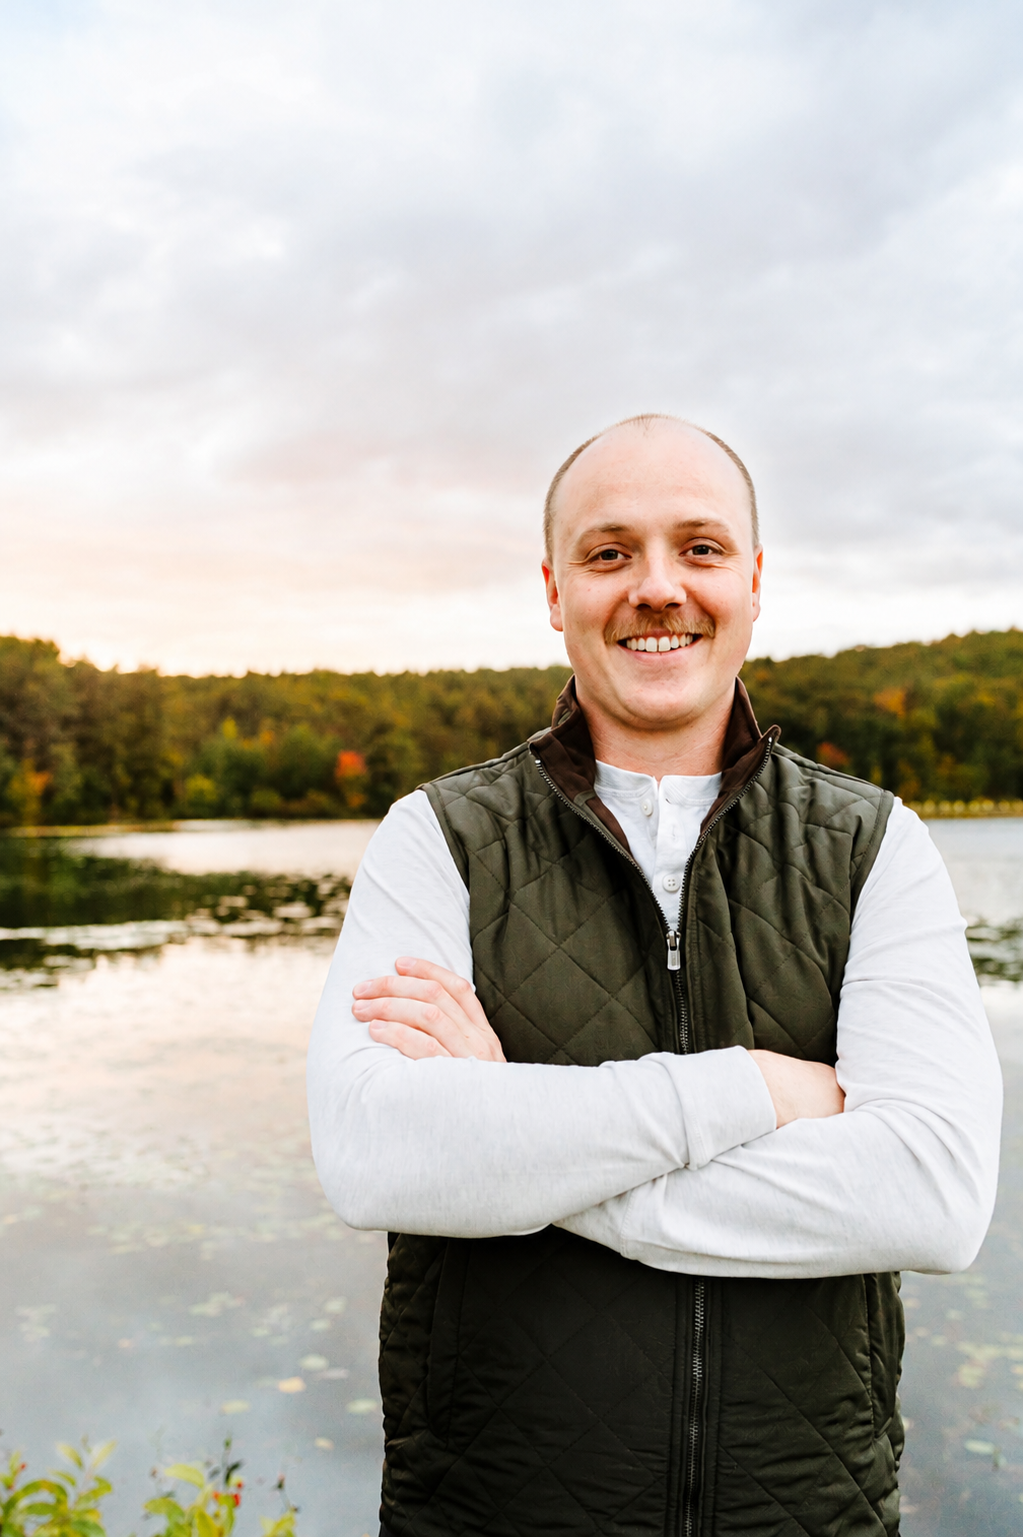
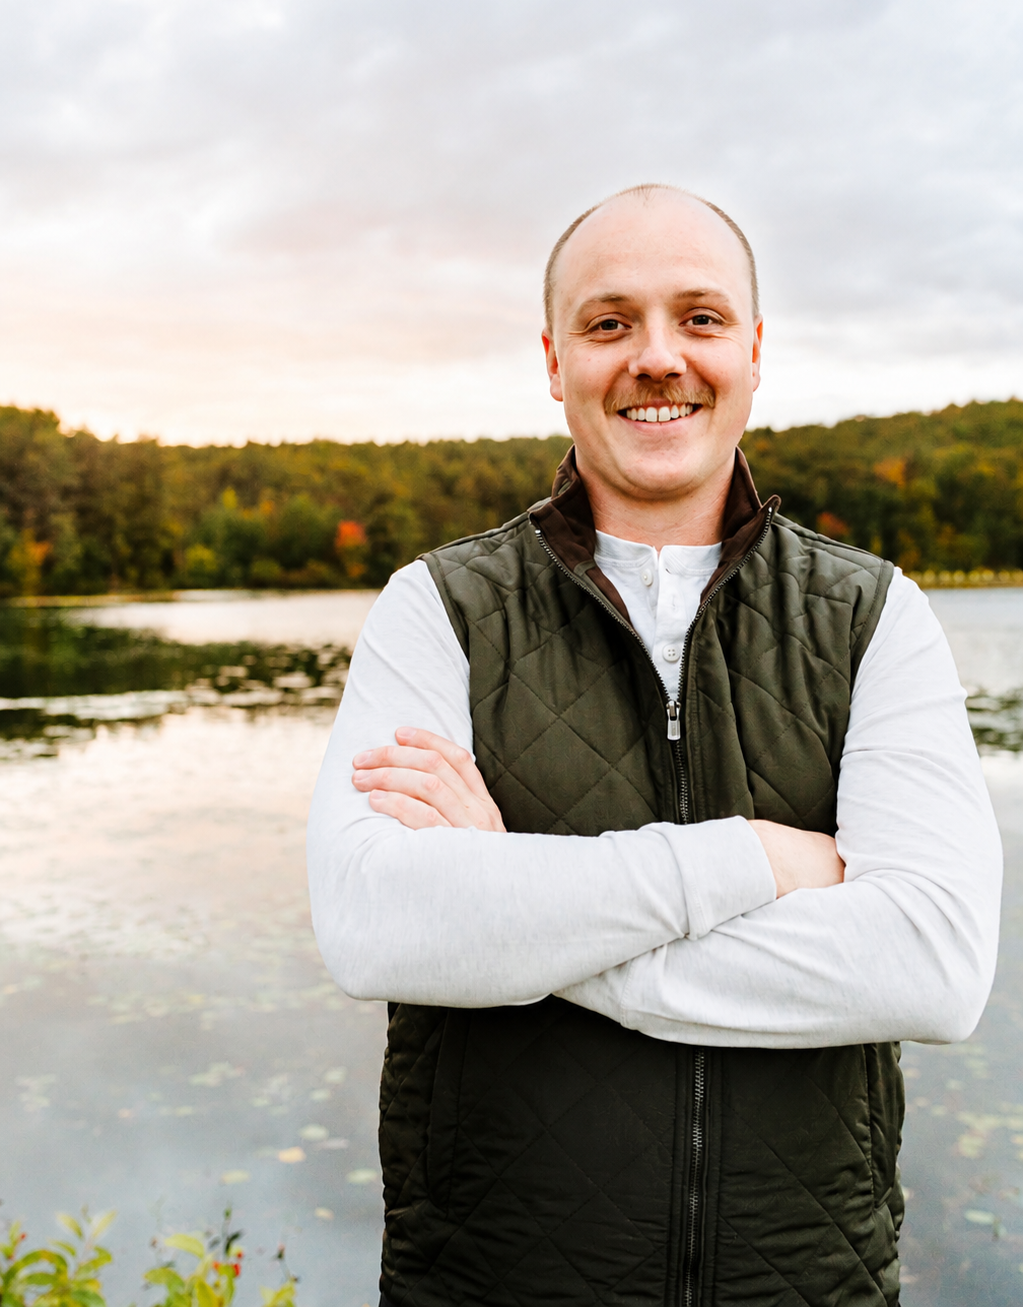
Crop top 15% from Nick headshot to remove sky space above head

diff --git a/about.html b/about.html
@@ -286,7 +286,7 @@
       <!-- Right: Nick's headshot -->
       <div class="relative">
         <div class="photo-slot card-shadow" style="aspect-ratio:4/5;max-width:420px;margin:0 auto;">
-          <img src="./Nick Headshot.png" alt="Nick Williamson, Founder of Vital Vending Sales" width="840" height="1050" loading="lazy" style="object-position:center 20%;transform:scale(1.15);transform-origin:center 25%;" />
+          <img src="./Nick Headshot.png" alt="Nick Williamson, Founder of Vital Vending Sales" width="840" height="1050" loading="lazy" style="object-position:center top;" />
           <div class="photo-overlay"></div>
           <div class="photo-label">
             <div class="font-black text-white text-lg" style="letter-spacing:-0.02em;">Nick Williamson</div>
@@ -396,7 +396,7 @@
       <!-- Card 2 — Nick Williamson (center) -->
       <div class="team-card">
         <div class="team-photo">
-          <img src="./Nick Headshot.png" alt="Nick Williamson, Founder of Vital Vending Sales" width="480" height="600" loading="lazy" style="object-position:center 30%;transform:scale(1.15);transform-origin:center 35%;" />
+          <img src="./Nick Headshot.png" alt="Nick Williamson, Founder of Vital Vending Sales" width="480" height="600" loading="lazy" style="object-position:center top;" />
           <div style="position:absolute;inset:0;background:linear-gradient(to top, rgba(18,30,53,0.5) 0%, transparent 50%);pointer-events:none;"></div>
         </div>
         <div class="p-6">